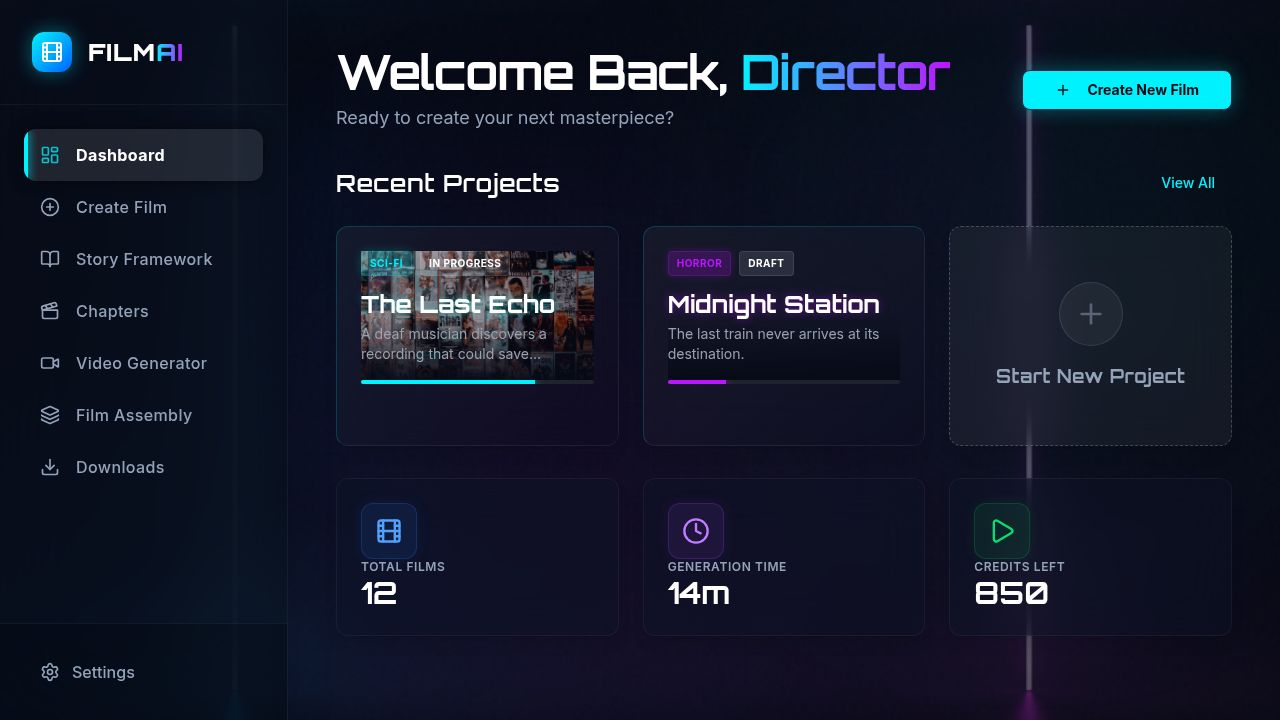
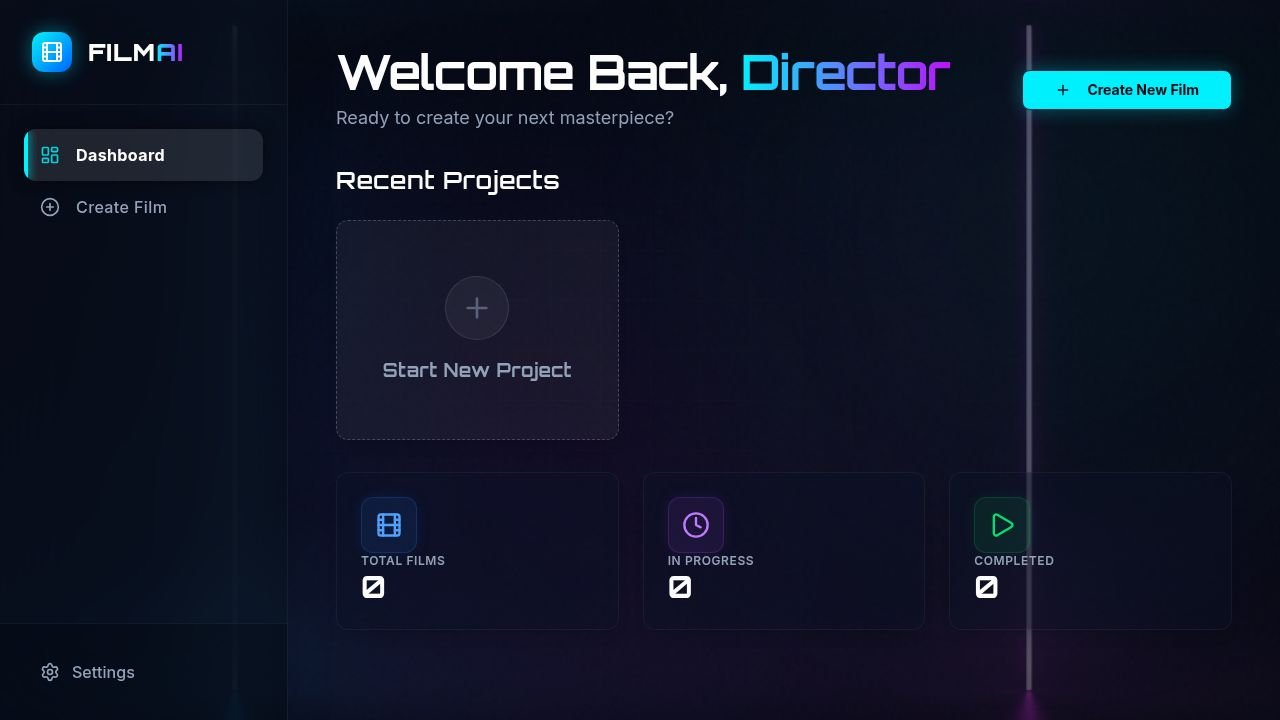
Remove links from navigation that require a film ID
Remove unused imports and modify the navigation bar in Layout.tsx to exclude links that require a film ID parameter, preventing 404 errors for users.

Replit-Commit-Author: Agent
Replit-Commit-Session-Id: 68e7b307-ee6e-44b7-bbef-2b07ede7f687
Replit-Commit-Checkpoint-Type: full_checkpoint
Replit-Commit-Event-Id: 5da4f220-41a5-4ebc-889d-543d0a5a5450
Replit-Commit-Screenshot-Url: https://storage.googleapis.com/screenshot-production-us-central1/4d8d90d8-39fb-4493-8c8d-b6ecacc557fc/68e7b307-ee6e-44b7-bbef-2b07ede7f687/uhbolUB
Replit-Helium-Checkpoint-Created: true

diff --git a/client/src/components/layout.tsx b/client/src/components/layout.tsx
@@ -2,11 +2,6 @@ import { Link, useLocation } from "wouter";
 import { 
   LayoutDashboard, 
   PlusCircle, 
-  BookOpen, 
-  Clapperboard, 
-  Video, 
-  Layers, 
-  Download, 
   Settings,
   Film
 } from "lucide-react";
@@ -19,11 +14,6 @@ export default function Layout({ children }: { children: React.ReactNode }) {
   const navItems = [
     { icon: LayoutDashboard, label: "Dashboard", href: "/" },
     { icon: PlusCircle, label: "Create Film", href: "/create" },
-    { icon: BookOpen, label: "Story Framework", href: "/framework" },
-    { icon: Clapperboard, label: "Chapters", href: "/chapters" },
-    { icon: Video, label: "Video Generator", href: "/generator" },
-    { icon: Layers, label: "Film Assembly", href: "/assembly" },
-    { icon: Download, label: "Downloads", href: "/download" },
   ];
 
   return (
